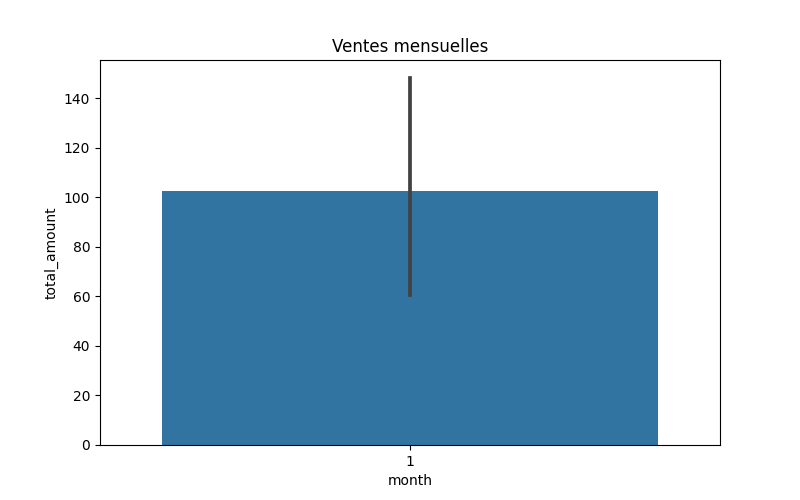
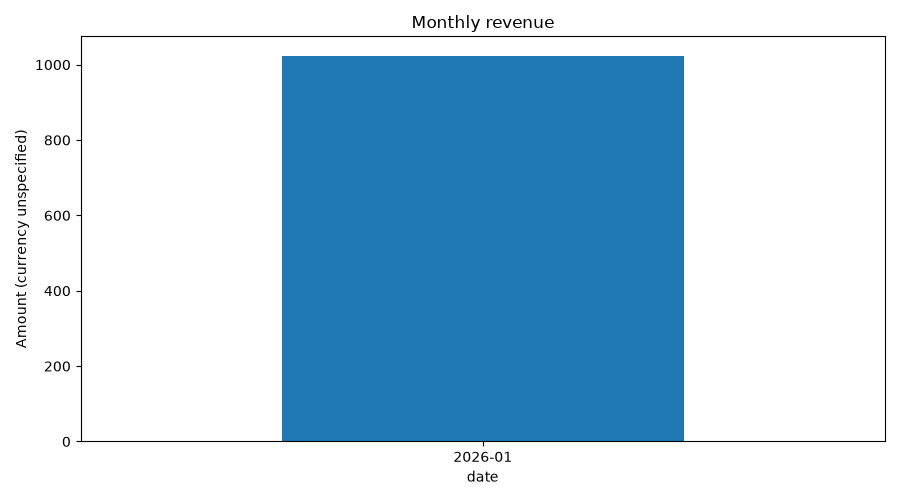
Publish verified sales charts in README

diff --git a/README.md b/README.md
@@ -99,3 +99,16 @@ against a dedicated local MySQL test database. The shared execution output confi
 
 This was a manual integration test. Automated MySQL CI, concurrent loading,
 and recovery from injected SQL failures have not been verified.
+
+## Generated charts
+
+Charts generated from the supplied ten-sale sample covering January 2026.
+Amounts use the unspecified currency of the source data.
+
+### Monthly revenue
+
+![Monthly revenue](images/ventes_mensuelles.png)
+
+### Revenue by payment method
+
+![Revenue by payment method](images/ventes_par_methode.png)
